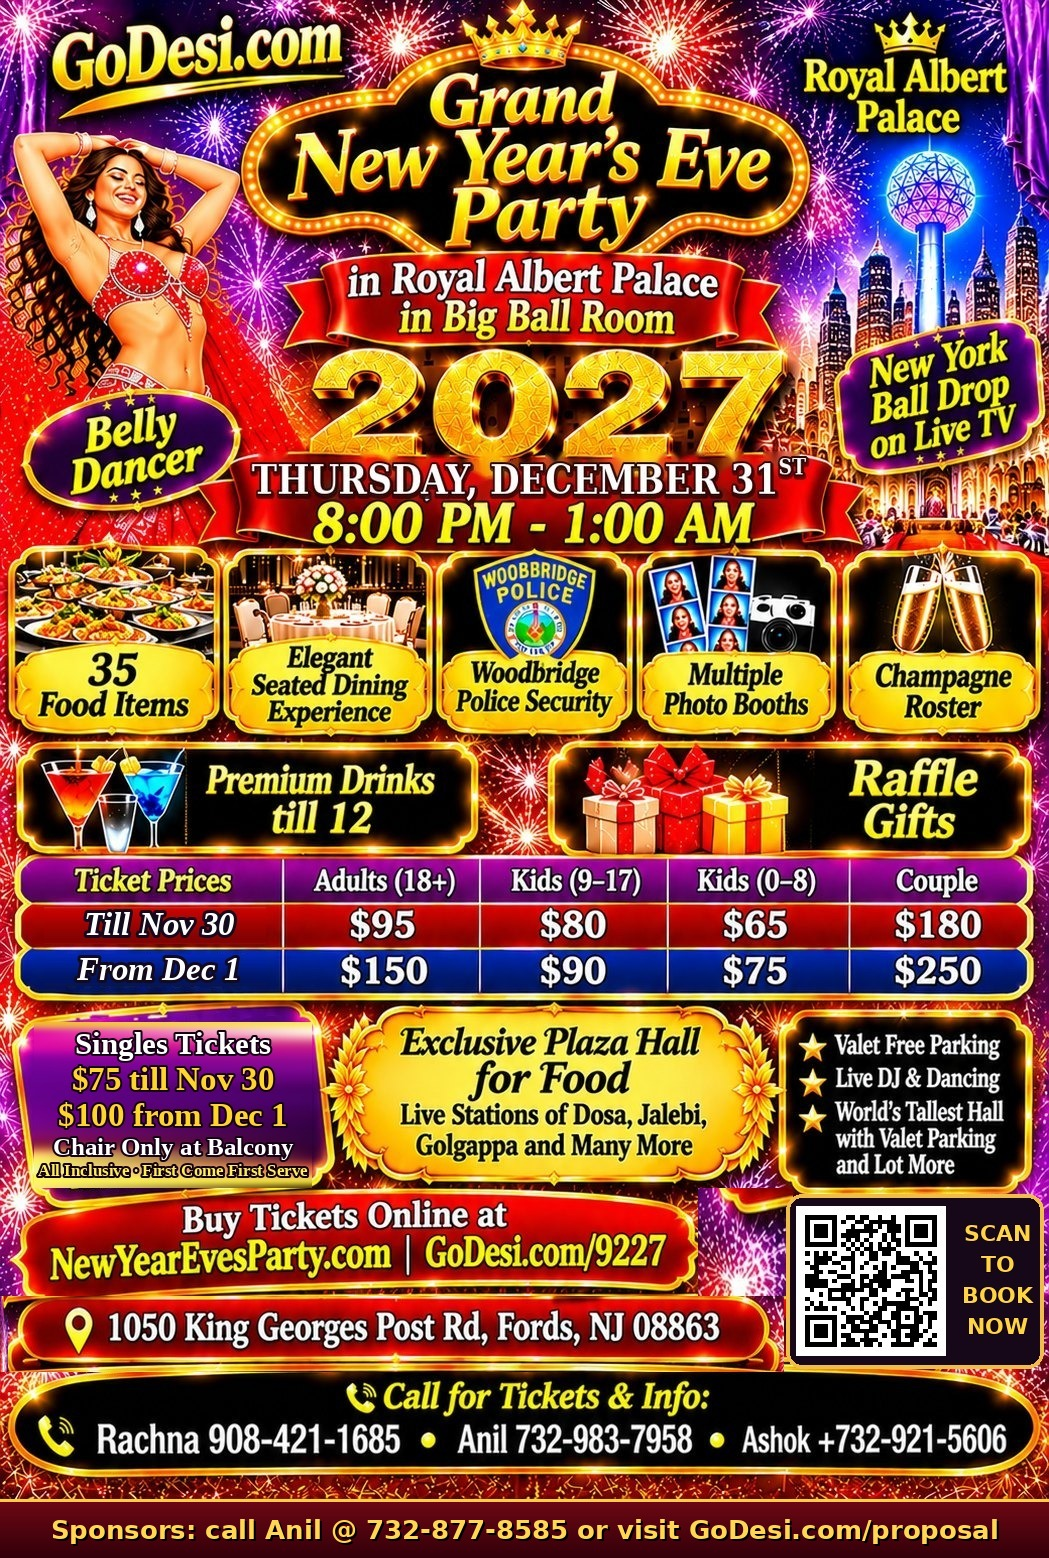
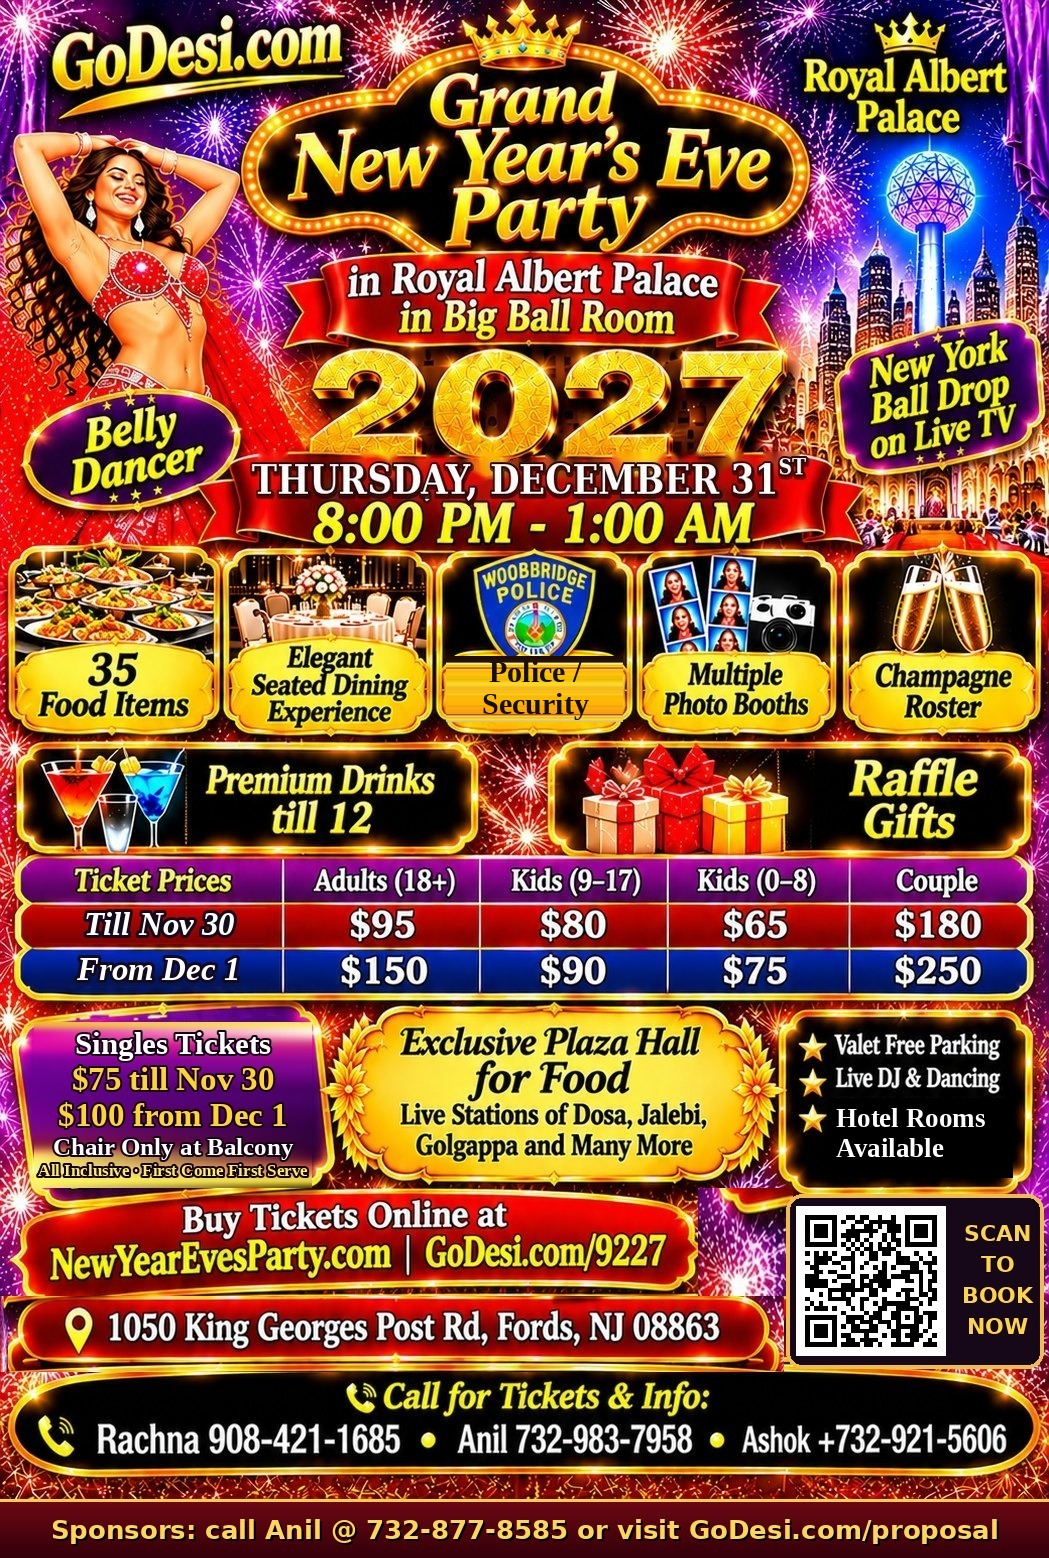
NYE 2027: hotel room tiers ($120 jacuzzi / $110), Police / Security, flyer update; outfit, Uber and GoDesi Connect links with NYE tickets

Changed region(s): [[0.4271, 0.4005, 0.6101, 0.4621], [0.7931, 0.7086, 0.9762, 0.7702]]

diff --git a/scripts/update-nye-2027-edison.ts b/scripts/update-nye-2027-edison.ts
@@ -25,7 +25,7 @@ const EARLY_END = LATE_START;
 const DESCRIPTION = [
   "Grand New Year's Eve Party 2027 in the Big Ball Room at Royal Albert Palace — Thursday, December 31st, 2026, 8:00 PM to 1:00 AM. Hosted by NewYearEvesParty.com, celebrating since 2018.",
   "35 food items and an elegant seated dining experience, with an exclusive Plaza Hall of live food stations — dosa, jalebi, golgappa and more. Premium drinks until midnight and a midnight champagne toast.",
-  "Live DJ Sandy of M&D Events, a live belly dance performance, the New York ball drop on live TV, multiple photo booths and exciting raffle prizes. Woodbridge Police security and free valet parking.",
+  "Live DJ Sandy of M&D Events, a live belly dance performance, the New York ball drop on live TV, multiple photo booths and exciting raffle prizes. Police / security and free valet parking. Hotel rooms available: $120 with jacuzzi, $110 without.",
   "Till Nov 30: Couple $180, Adult (18+) $95, Big Kid (9–17) $80, Small Kid (0–8) $65. From Dec 1: Couple $250, Adult (18+) $150, Big Kid (9–17) $90, Small Kid (0–8) $75. VIP Table for 12 with a bottle of champagne on the table (only 5 tables): $1080 till Nov 30, $1200 from Dec 1. Balcony $75 till Nov 30, $100 from Dec 1 — adults, chair only, all inclusive, limited seats, first come, first served, no table seating.",
   "Call for tickets & info: Rachna 908-421-1685 · Anil 732-983-7958 · Ashok 732-921-5606. Book online at NewYearEvesParty.com or GoDesi.com/9227.",
   "Sponsors welcome: Silver $1,000, Gold $2,500 and Platinum $5,000 packages, plus single add-ons — GoDesi.com/sponsor2027.",
@@ -64,6 +64,10 @@ const BANNER_YEAR = "320×100 banner on GoDesi.com for 1 year";
  */
 const HALL_TICKETS = 350;
 
+/** Hotel rooms are sold as ticket tiers that admit nobody; their rooms are added to the event's seat cap. */
+const HOTEL_ROOMS_PER_TYPE = 10;
+const HOTEL_NOTE = "New Year's Eve night (Dec 31 → Jan 1) · hotel details sent after booking · room only, buy party tickets separately";
+
 const BALCONY_NOTE = "Adults · chair only, all inclusive · first come, first served · no table seating";
 
 /** GoDesi business pages listed as sponsors of the party. */
@@ -82,6 +86,8 @@ const TIERS: TierSpec[] = [
   { name: "Small Kid (0–8)", match: ["Kids (0–8)"], price: 75, seats: 10, salesStart: LATE_START },
   { name: "VIP Table for 12 with champagne", note: "12 seats at a reserved VIP table, bottle of champagne on the table · only 5 tables", price: 1200, seats: 5, salesStart: LATE_START, admits: 12, stockGroup: "vip-table" },
   { name: "Balcony — first come, first served, no table seating", note: BALCONY_NOTE, price: 100, seats: 50, salesStart: LATE_START, stockGroup: "balcony" },
+  { name: "Hotel room with jacuzzi", note: HOTEL_NOTE, price: 120, seats: HOTEL_ROOMS_PER_TYPE, admits: 0 },
+  { name: "Hotel room (no jacuzzi)", note: HOTEL_NOTE, price: 110, seats: HOTEL_ROOMS_PER_TYPE, admits: 0 },
   { kind: "SPONSOR", ...nyeSponsorLevel("Silver sponsor"), seats: 10, admits: 2, bannerMonths: 12, bannerSlot: "MOBILE", wallBricks: 25 },
   { kind: "SPONSOR", ...nyeSponsorLevel("Gold sponsor"), seats: 5, admits: 4, bannerMonths: 12, bannerSlot: "SIDEBAR", wallBricks: 75 },
   { kind: "SPONSOR", ...nyeSponsorLevel("Platinum sponsor"), seats: 2, admits: 10, bannerMonths: 12, bannerSlot: "HALFPAGE", wallBricks: 200 },
@@ -175,7 +181,7 @@ async function main() {
       reviewsAlbumUrl: REVIEWS_ALBUM,
       tags: event.tags.includes(HIDE_SEATS_LEFT_TAG) ? event.tags : [...event.tags, HIDE_SEATS_LEFT_TAG],
       price: Math.min(...tiers.map((tier) => tier.price)),
-      seatsTotal: Math.max(HALL_TICKETS, tiers.reduce((sum, tier) => sum + tier.seatsBooked, 0)),
+      seatsTotal: Math.max(HALL_TICKETS + 2 * HOTEL_ROOMS_PER_TYPE, tiers.reduce((sum, tier) => sum + tier.seatsBooked, 0)),
     },
   });
 

diff --git a/src/components/NyeExtras.tsx b/src/components/NyeExtras.tsx
@@ -1,0 +1,43 @@
+import Link from "next/link";
+import { NYE_2027_EVENT_SLUG } from "@/lib/nyeSponsorLevels";
+
+const NYE_2027_SLUGS = [NYE_2027_EVENT_SLUG, "singles-new-years-eve-party-2027-nj"];
+const VENUE_NAME = "Royal Albert Palace";
+const VENUE_ADDRESS = "1050 King Georges Post Rd, Fords, NJ 08863";
+
+export const OUTFITS_URL = "https://www.amazon.com/s?k=indian+party+wear+outfit&tag=godesi03-20";
+export const UBER_URL = `https://m.uber.com/ul/?action=setPickup&pickup=my_location&dropoff%5Bformatted_address%5D=${encodeURIComponent(VENUE_ADDRESS)}&dropoff%5Bnickname%5D=${encodeURIComponent(VENUE_NAME)}`;
+
+export function isNye2027(slug: string) {
+  return NYE_2027_SLUGS.includes(slug);
+}
+
+/** Outfit, ride and Connect links shown with the NYE 2027 ticket form. */
+export function NyeExtras() {
+  return (
+    <div className="mt-4 space-y-2 rounded-xl border border-amber-200 bg-amber-50 p-3 text-sm text-slate-700">
+      <p className="font-bold text-slate-900">✨ Make a night of it</p>
+      <p>
+        👗{" "}
+        <a href={OUTFITS_URL} target="_blank" rel="nofollow sponsored noopener" className="font-semibold underline">
+          Party outfits — Indian &amp; western party wear on Amazon ↗
+        </a>
+      </p>
+      <p>
+        🚗{" "}
+        <a href={UBER_URL} target="_blank" rel="noopener" className="font-semibold underline">
+          Book an Uber to {VENUE_NAME} ↗
+        </a>{" "}
+        — no drinking and driving.
+      </p>
+      <p>
+        💞 Looking for a partner? Make a free{" "}
+        <Link href="/connect/new#my-profile" className="font-semibold underline">
+          GoDesi Connect profile
+        </Link>
+        ; singles 21+ can turn on &ldquo;Open to dating&rdquo;.
+      </p>
+      <p className="text-xs text-slate-500">As an Amazon Associate GoDesi earns from qualifying purchases.</p>
+    </div>
+  );
+}

diff --git a/scripts/nye-2027-to-newyearevesparty.ts b/scripts/nye-2027-to-newyearevesparty.ts
@@ -17,7 +17,7 @@ const TITLE = "Grand New Year's Eve Party 2027 at Royal Albert Palace, Fords NJ 
 
 const SUMMARY = [
   "NewYearEvesParty.com is hosting the Grand New Year's Eve Party 2027 on Thursday, December 31st, 2026, 8:00 PM to 1:00 AM, in the Big Ball Room at Royal Albert Palace, 1050 King Georges Post Rd, Fords NJ 08863 (near Edison).",
-  "It's a family party: 35 food items, an elegant seated dining experience, an exclusive Plaza Hall with live food stations (dosa, jalebi, golgappa and more), premium drinks until midnight, a midnight champagne toast, live DJ Sandy of M&D Events, a live belly dance performance, the New York ball drop on live TV, multiple photo booths, exciting raffle prizes, Woodbridge Police security and free valet parking.",
+  "It's a family party: 35 food items, an elegant seated dining experience, an exclusive Plaza Hall with live food stations (dosa, jalebi, golgappa and more), premium drinks until midnight, a midnight champagne toast, live DJ Sandy of M&D Events, a live belly dance performance, the New York ball drop on live TV, multiple photo booths, exciting raffle prizes, police / security and free valet parking. Hotel rooms available: $120 with jacuzzi, $110 without.",
   "Till Nov 30: Adults (18+) $95, Kids (9–17) $80, Kids (0–8) $65, Couple $180. From Dec 1: Adults $150, Kids (9–17) $90, Kids (0–8) $75, Couple $250. Book at NewYearEvesParty.com or godesi.com/9227.",
   "Singles get their own first-come-first-served balcony — chair only, no table, all inclusive — $75 till Nov 30, $100 from Dec 1. Limited seats; singles seats on GoDesi are 21+ with photo ID checked at the door. Book at godesi.com/927.",
   "Call for tickets & info: Rachna 908-421-1685 · Anil 732-983-7958 · Ashok 732-921-5606. Sponsors: godesi.com/sponsor2027.",

diff --git a/src/app/events/[slug]/page.tsx b/src/app/events/[slug]/page.tsx
@@ -23,6 +23,7 @@ import {
   tierSeatsLeft,
 } from "@/lib/events";
 import { TicketForm } from "@/components/forms/TicketForm";
+import { NyeExtras, isNye2027 } from "@/components/NyeExtras";
 import { normalizePromoCode } from "@/lib/ambassadorPromo";
 import { InContentBanner, SidebarBanners } from "@/components/Banners";
 import { EventCard } from "@/components/EventCard";
@@ -1128,6 +1129,7 @@ export default async function EventPage({
                 />
               </div>
             )}
+            {!past && isNye2027(event.slug) ? <NyeExtras /> : null}
           </Card>
         )}
 
